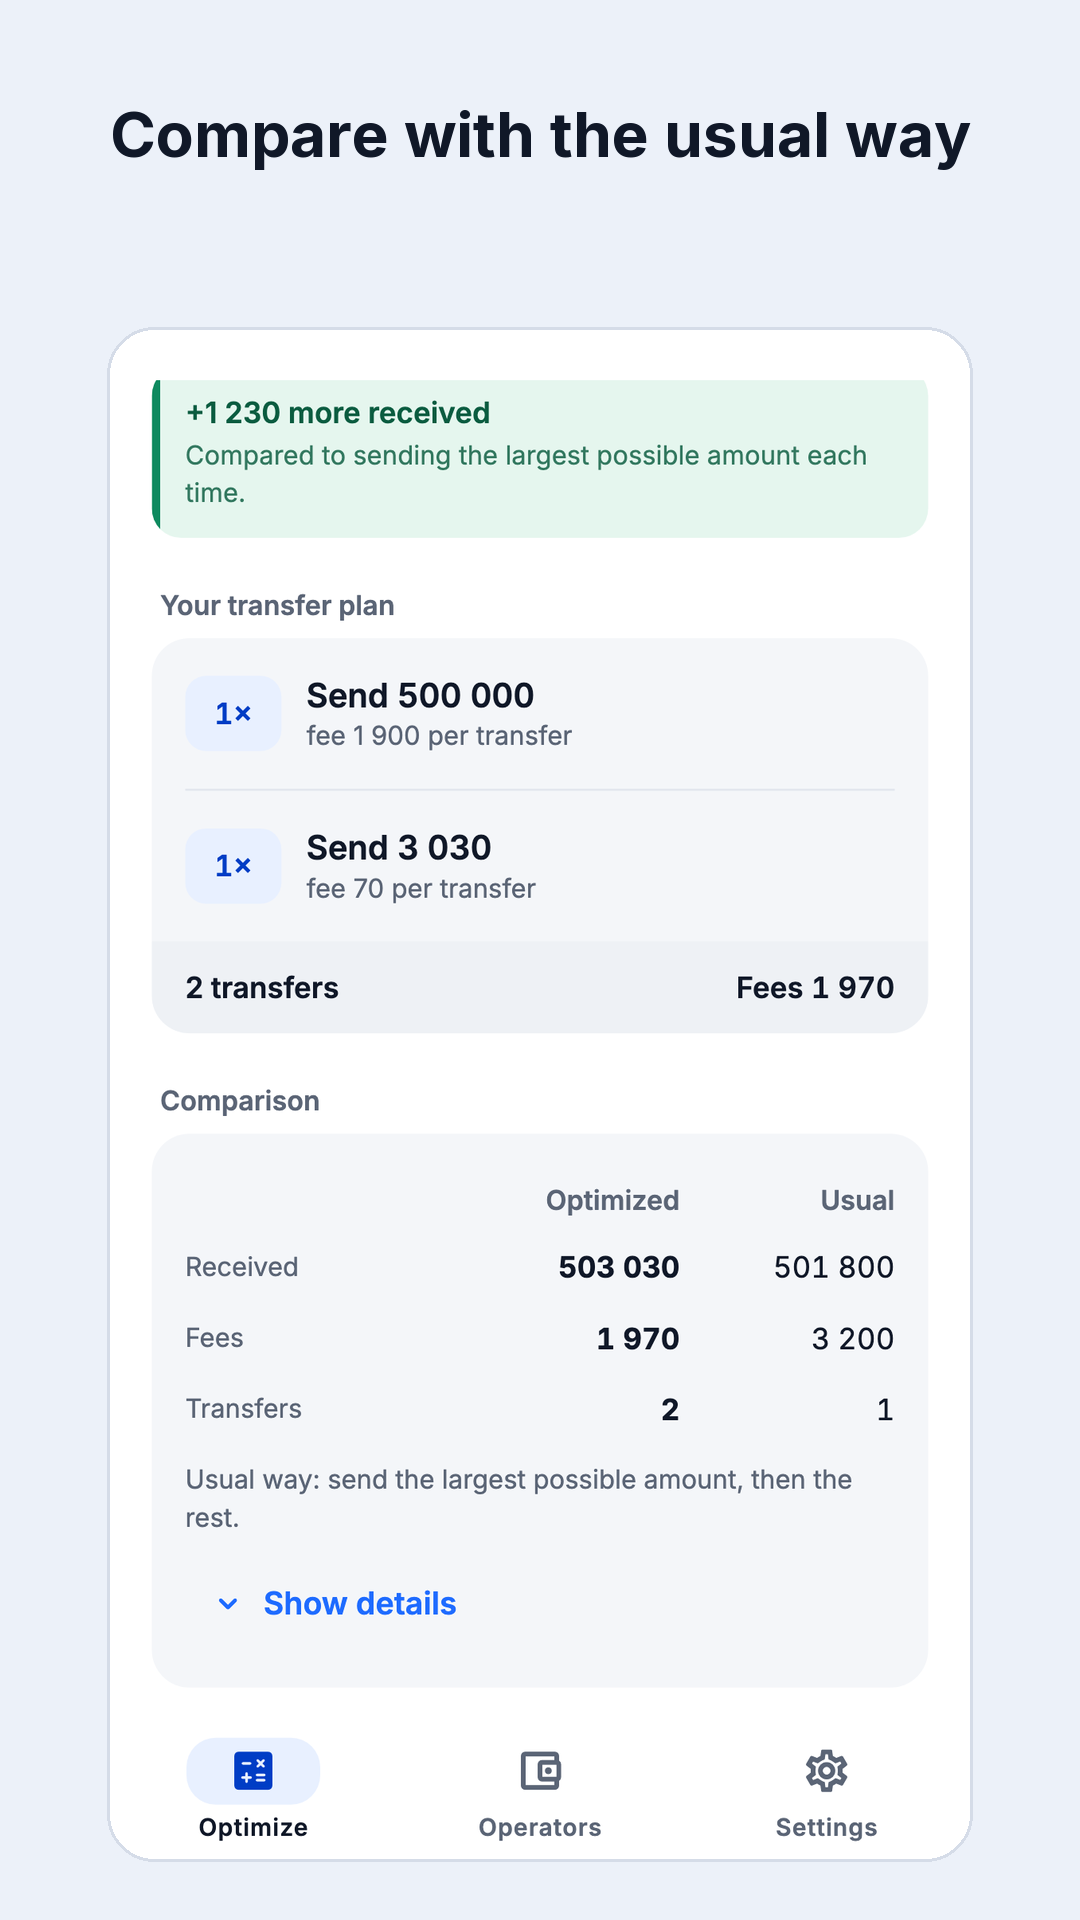
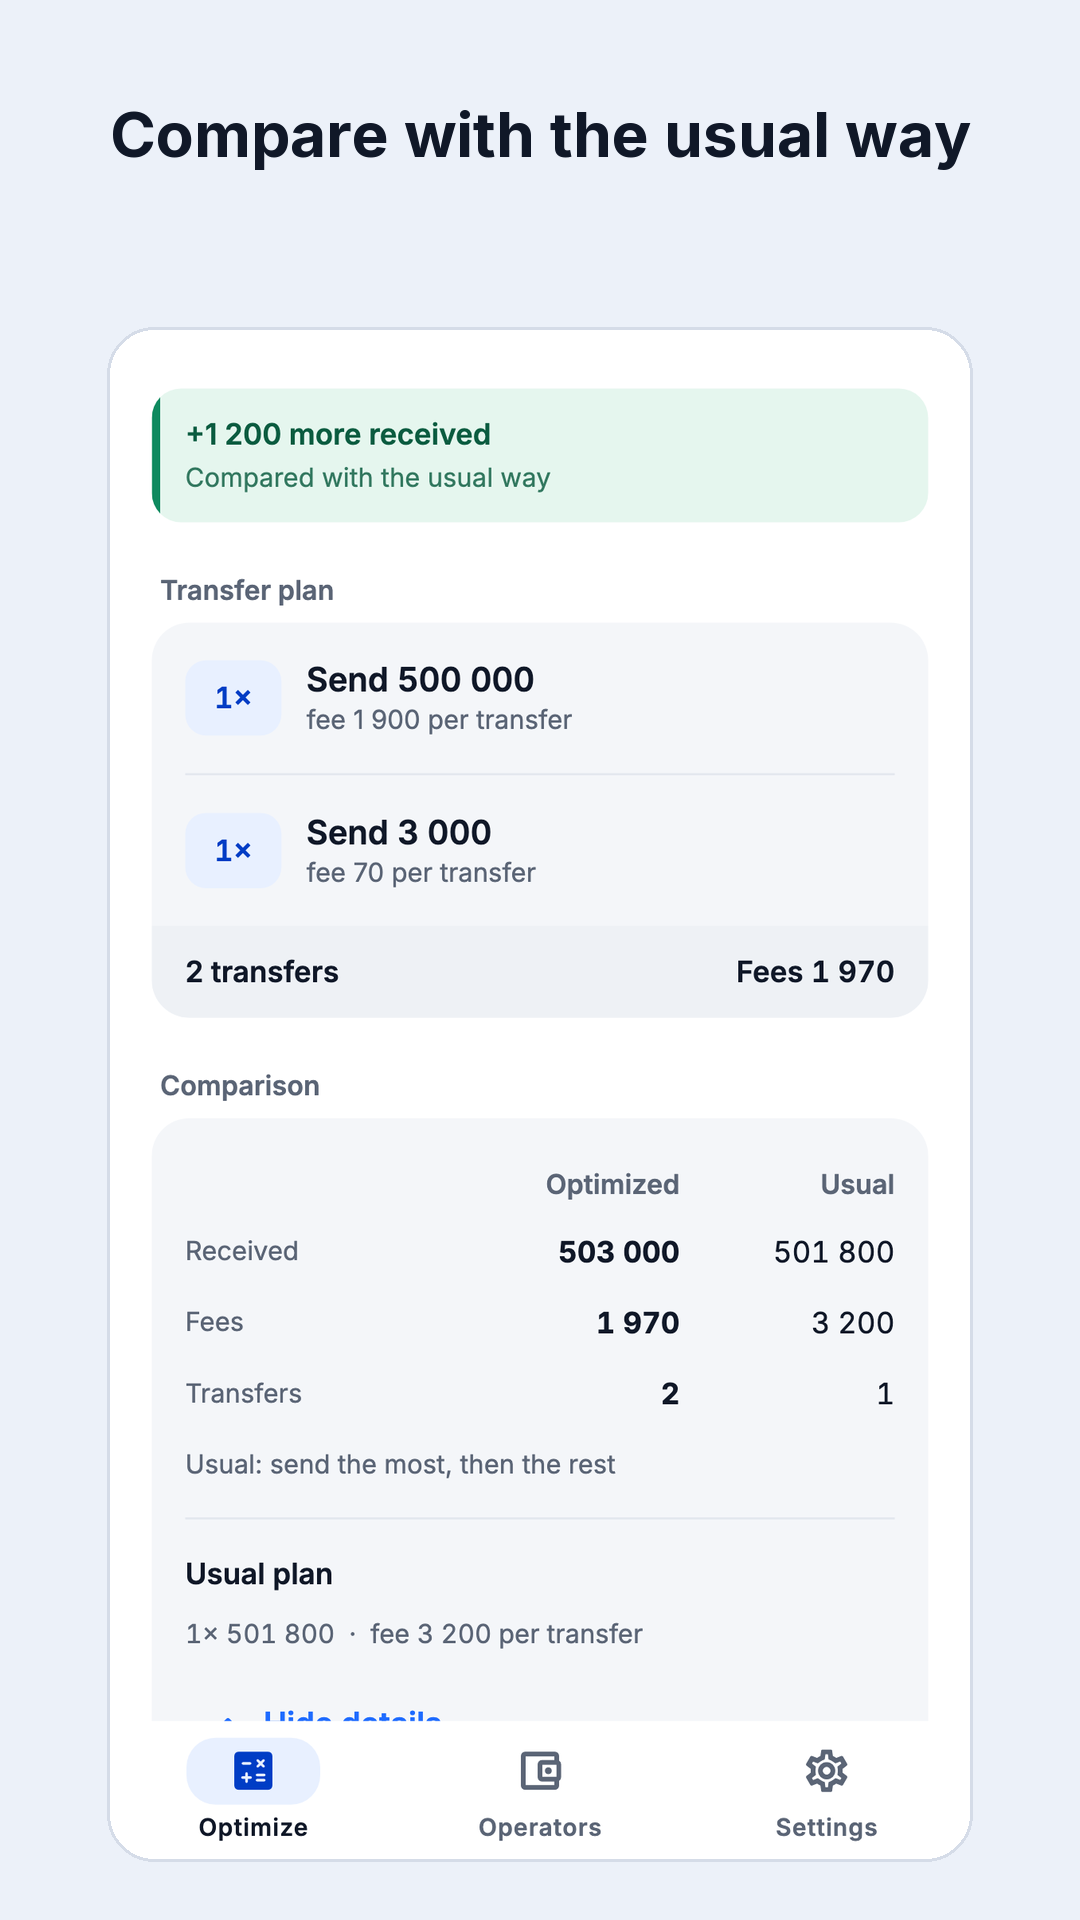
dev (store) : Play Store screenshots of the new interface

diff --git a/tool/store_screenshots_test.dart b/tool/store_screenshots_test.dart
@@ -23,8 +23,11 @@ import 'package:provider/provider.dart';
 import 'package:shared_preferences/shared_preferences.dart';
 import 'package:sqflite_common_ffi/sqflite_ffi.dart';
 
-const _materialIcons =
-    '/opt/homebrew/share/flutter/bin/cache/artifacts/material_fonts/MaterialIcons-Regular.otf';
+/// Icons font of the Flutter SDK running the test (FLUTTER_ROOT is set by
+/// `flutter test`), wherever it is installed.
+String get _materialIcons =>
+    '${Platform.environment['FLUTTER_ROOT']}/bin/cache/artifacts/'
+    'material_fonts/MaterialIcons-Regular.otf';
 
 /// 1080 x 1920 pixels, like a 411 dp wide phone.
 const _ratio = 2.625;
@@ -73,6 +76,8 @@ class _Words {
     this.cash,
     this.recipient,
     this.transferPlan,
+    this.showDetails,
+    this.transferGain,
   );
   final String withdrawal;
   final String transfer;
@@ -81,6 +86,8 @@ class _Words {
   final String cash;
   final String recipient;
   final String transferPlan;
+  final String showDetails;
+  final String transferGain;
 }
 
 const _words = {
@@ -91,7 +98,9 @@ const _words = {
     'Opérateurs',
     'Vous recevez en espèces',
     'Le destinataire reçoit',
-    "Votre plan d'envoi",
+    "Plan d'envoi",
+    'Voir le détail',
+    '+1\u00A0200 reçus en plus',
   ),
   'en': _Words(
     'Withdrawal',
@@ -100,7 +109,9 @@ const _words = {
     'Operators',
     'You receive in cash',
     'The recipient receives',
-    'Your transfer plan',
+    'Transfer plan',
+    'Show details',
+    '+1\u00A0200 more received',
   ),
 };
 
@@ -215,7 +226,7 @@ void main() {
       await _alignTop(tester, w.cash, 44);
       await _shot(tester, locale, '2_withdrawal');
 
-      // 3. Transfer that beats the usual way: 1 230 more received.
+      // 3. Transfer that beats the usual way: 1 200 more received.
       await _scrollTo(tester, 0);
       await tester.tap(find.text(w.transfer).first);
       await _settle(tester, 5);
@@ -224,8 +235,15 @@ void main() {
       await _alignTop(tester, w.recipient, 44);
       await _shot(tester, locale, '3_transfer');
 
-      // 4. Comparison with the usual way.
-      await _alignTop(tester, w.transferPlan, 16);
+      // 4. Comparison with the usual way, with its detail.
+      final details = find.text(w.showDetails);
+      await tester.scrollUntilVisible(details, 300, scrollable: _scrollable);
+      await tester.ensureVisible(details);
+      await _settle(tester, 5);
+      await tester.tap(details);
+      await _settle(tester, 10);
+      // From the gain note (its card starts 12 above its title).
+      await _alignTop(tester, w.transferGain, 16);
       await _shot(tester, locale, '4_compare');
 
       // 5. Operators and their official grids.
